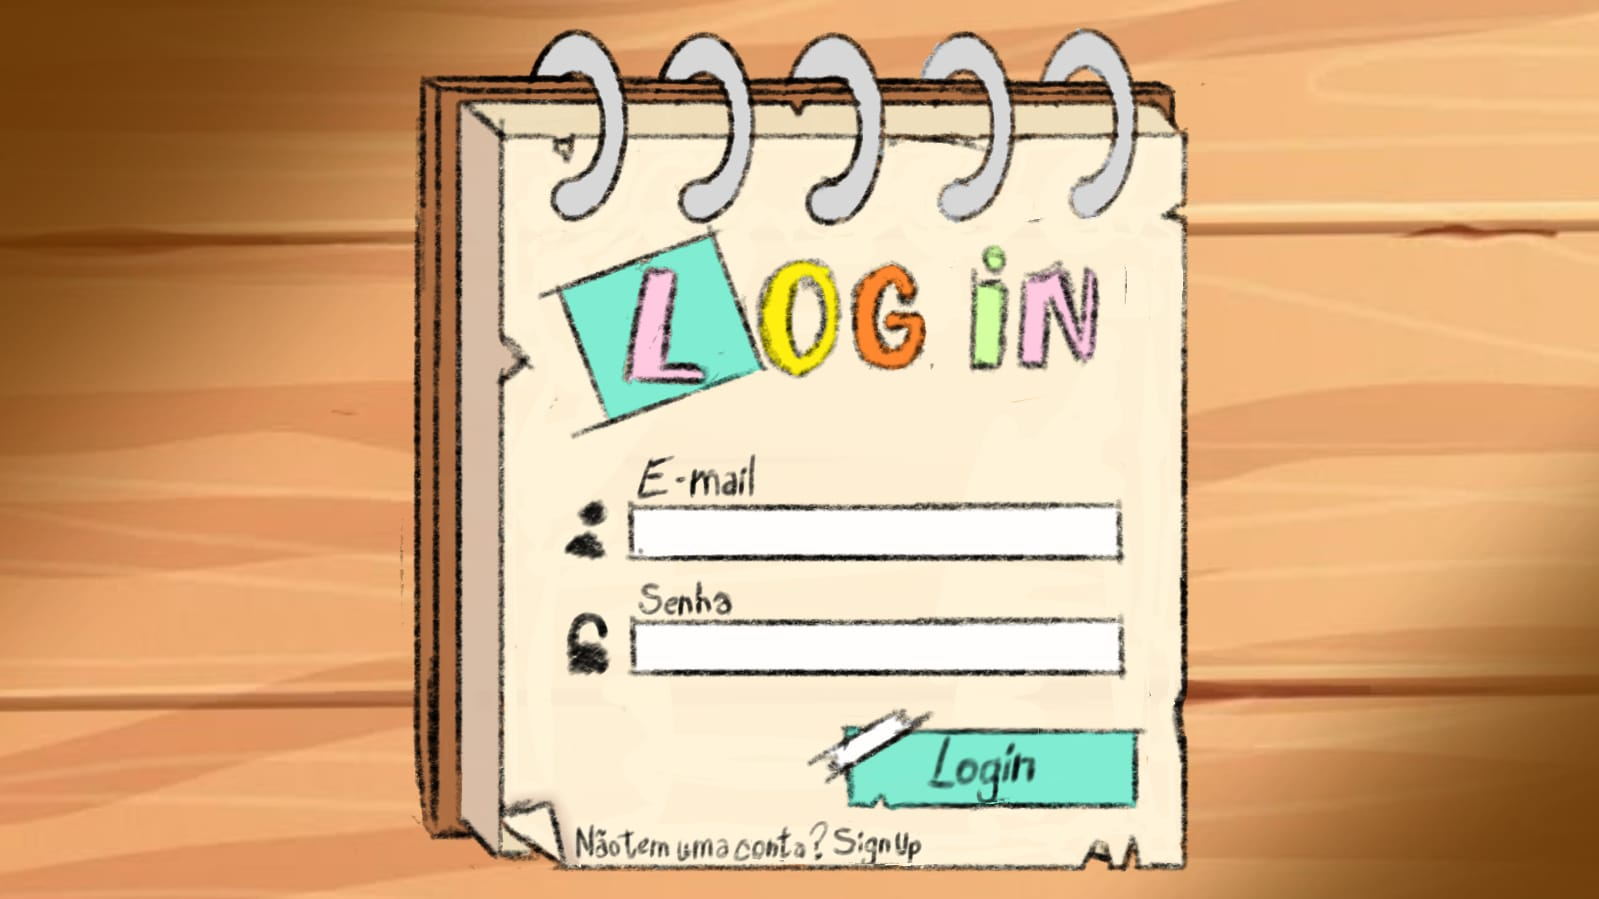
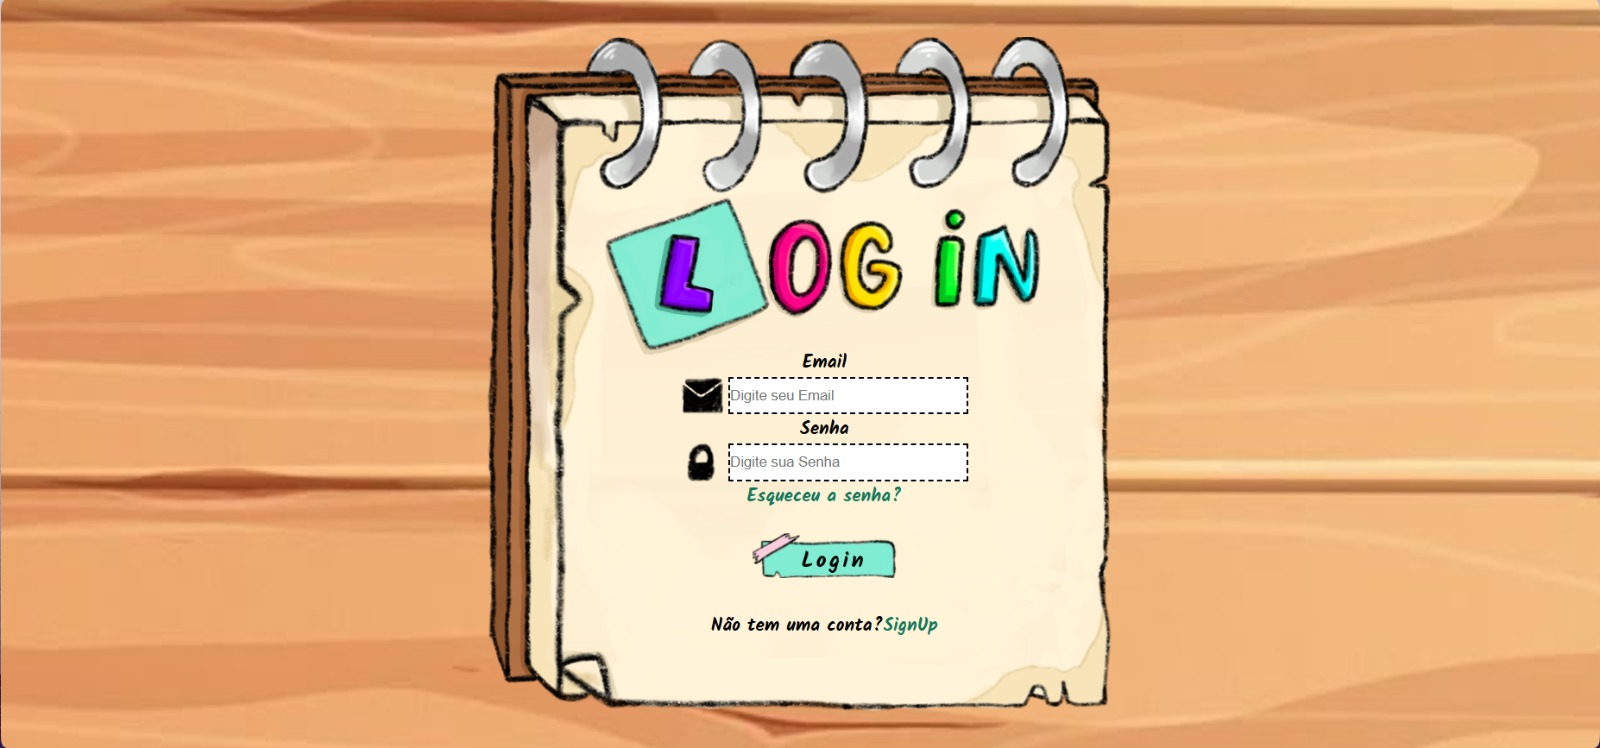
Update prototipo de telas
Update nas imagens dos prototipos de tela de acordo com o desenvolvimento delas no site.

diff --git a/PrototiposTelas/infoTelas.md b/PrototiposTelas/infoTelas.md
@@ -1,12 +1,16 @@
 # Informacoes sobre os prototipos de tela
 ## Aplicativo utilizado: ibisPaintX
 
-### geral:
+### Telas do site:
 1. Login
+
+1.2. Recuperacao de Senha
 
 2. Sign Up
 
-3. Tela inicial
+3. Tela inicial (Intro)
+
+3.2. Tela inicial (Tela principal)
 
 4. Lobby
 
@@ -14,15 +18,10 @@
 
 6. Podio
 
-
-### Jogador
-
 7. Escolher resposta
-
-### Host
 
 8. Escolher quiz
 
-### Administrador
-
 9. Criar quiz
+
+9.1. Criar pergunta
